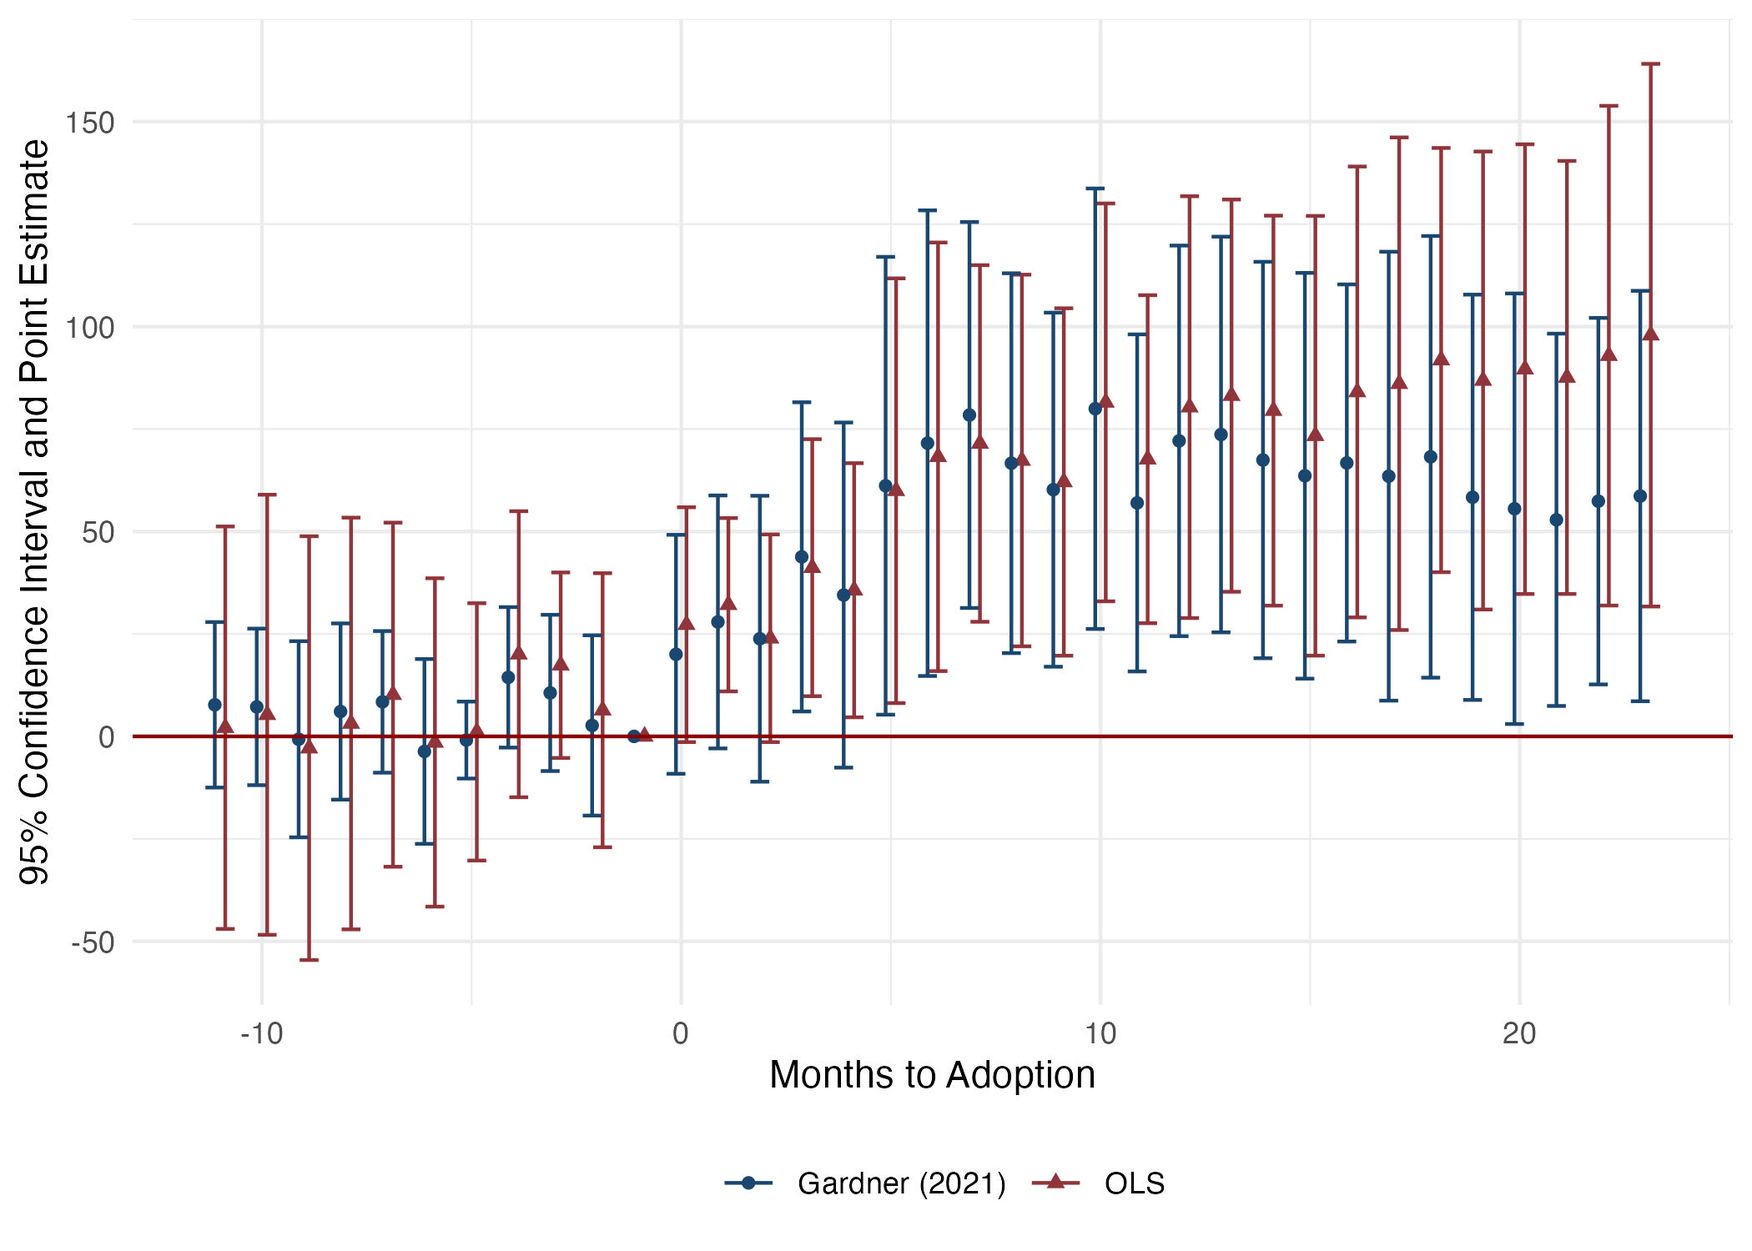
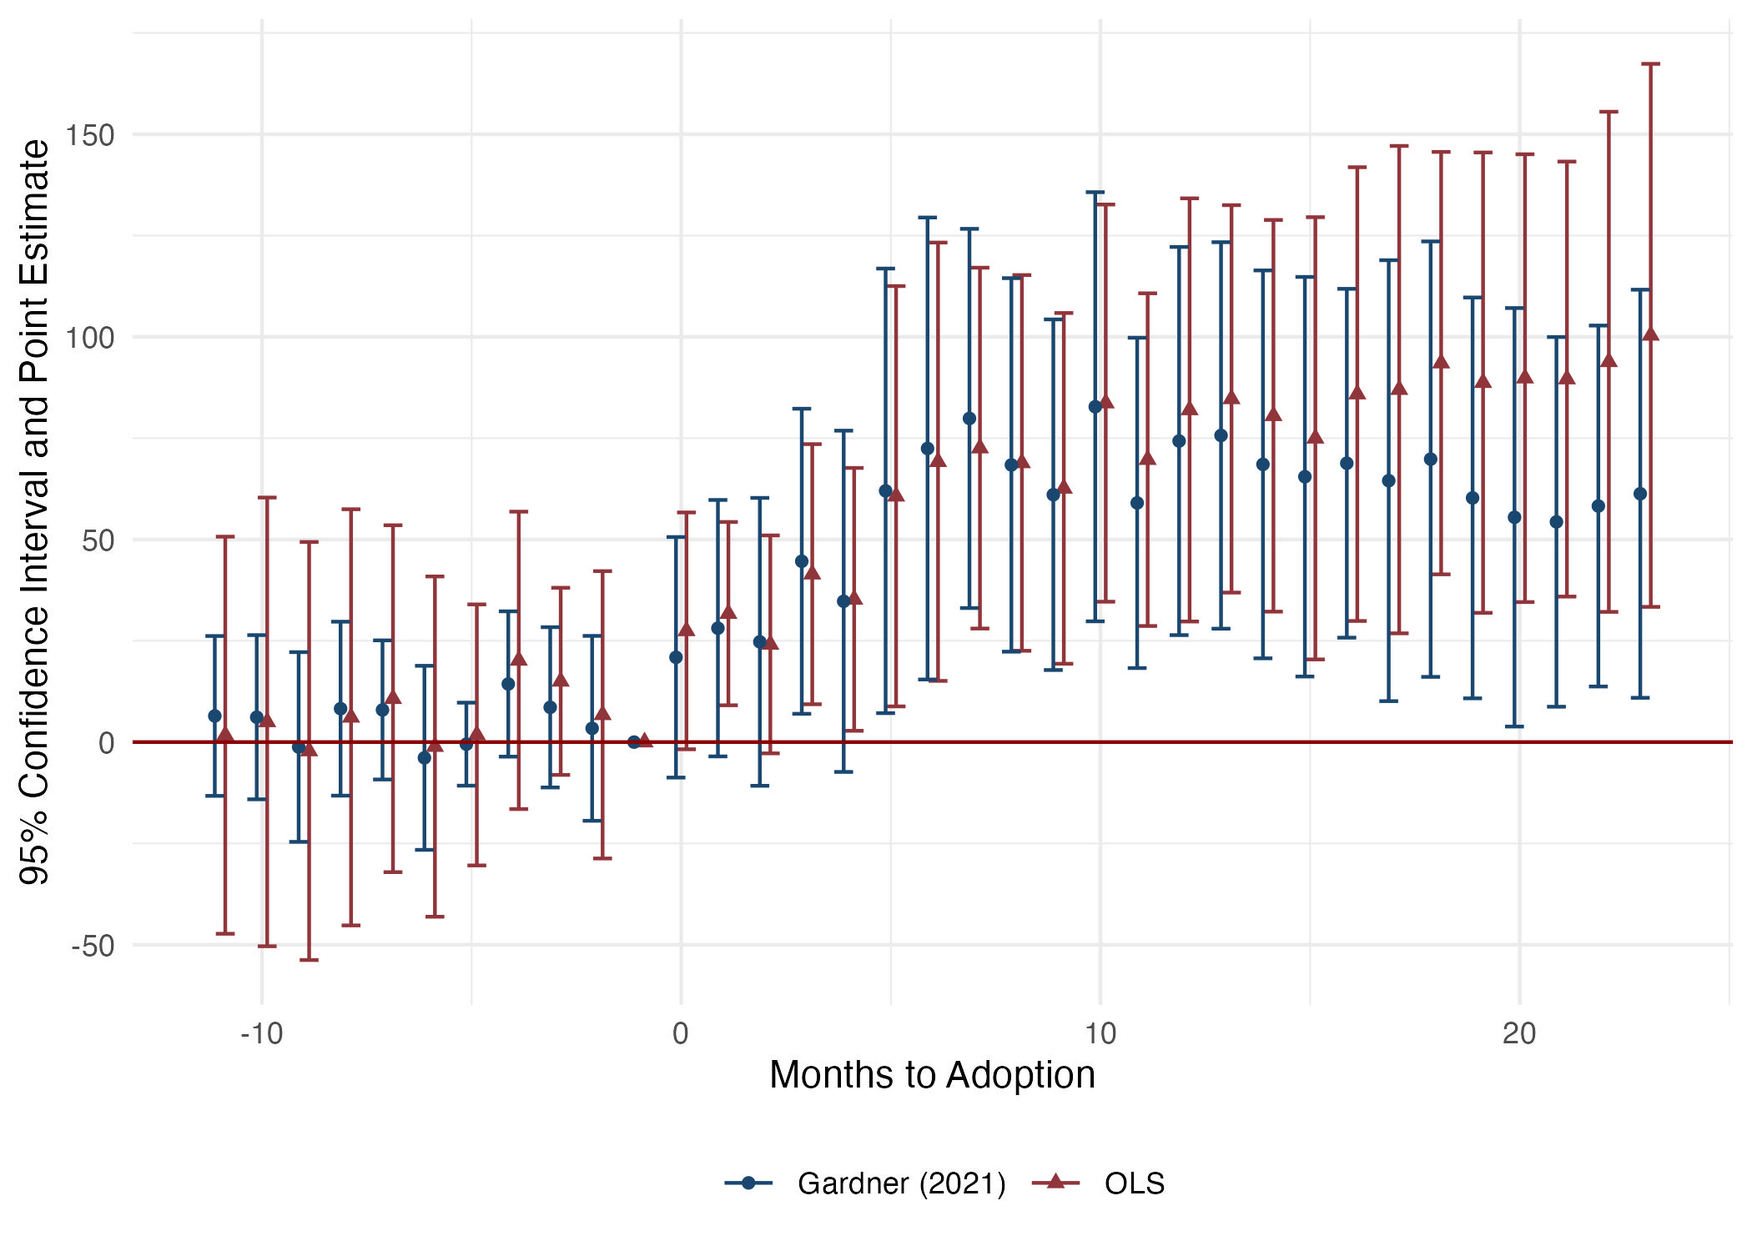
update: all figures and appendices

diff --git a/paper/appendix_tables/confounding_table.tex b/paper/appendix_tables/confounding_table.tex
@@ -14,37 +14,37 @@
 \midrule
 \addlinespace[0.3em]
 \multicolumn{7}{l}{\textit{Panel A: Call-to-Dispatch}}\\
-\hspace{1em}ShotSpotter Activated & 75.429*** & 71.817*** & 84.736*** & 90.334*** & 61.256*** & 71.856***\\
-\hspace{1em} & (25.028) & (22.497) & (26.894) & (22.057) & (20.988) & (22.523)\\
-\hspace{1em}SDSC Activated & -36.742** &  & -48.221** &  &  & \\
-\hspace{1em} & (16.585) &  & (16.930) &  &  & \\
-\hspace{1em}BWC Activated &  &  &  &  & -30.735 & \\
-\hspace{1em} &  &  &  &  & (20.755) & \\
-\hspace{1em}Mean of Dependent Variable & 281.890 & 281.890 & 289.018 & 289.018 & 281.890 & 281.890\\
-\hspace{1em}Observations & 3,582,560 & 3,582,528 & 3,198,525 & 3,198,500 & 3,582,560 & \vphantom{1} 3,582,528\\
-\hspace{1em}Wild Bootstrap P-Value & 0.006 &  & 0.004 &  & 0.010 & \\
+\hspace{1em}ShotSpotter Activated & 75.425*** & 71.454*** & 84.737*** & 90.120*** & 61.110*** & 71.461***\\
+\hspace{1em} & (25.374) & (22.770) & (27.235) & (22.300) & (21.220) & (22.783)\\
+\hspace{1em}SDSC Activated & -36.714** &  & -48.405** &  &  & \\
+\hspace{1em} & (16.847) &  & (17.110) &  &  & \\
+\hspace{1em}BWC Activated &  &  &  &  & -31.571 & \\
+\hspace{1em} &  &  &  &  & (20.928) & \\
+\hspace{1em}Mean of Dependent Variable & 287.246 & 287.246 & 294.523 & 294.523 & 287.246 & 287.246\\
+\hspace{1em}Observations & 3,453,655 & 3,453,623 & 3,084,625 & 3,084,600 & 3,453,655 & \vphantom{1} 3,453,623\\
+\hspace{1em}Wild Bootstrap P-Value & 0.002 &  & 0.007 &  & 0.003 & \\
 \addlinespace[0.5cm]
 \multicolumn{7}{l}{\textit{Panel B: Call-to-On-Scene}}\\
-\hspace{1em}ShotSpotter Activated & 120.530*** & 120.080*** & 127.822*** & 145.931*** & 98.403*** & 120.214***\\
-\hspace{1em} & (30.436) & (28.141) & (32.875) & (24.339) & (27.843) & (28.246)\\
-\hspace{1em}SDSC Activated & -60.324*** &  & -71.208*** &  &  & \\
-\hspace{1em} & (18.978) &  & (20.381) &  &  & \\
-\hspace{1em}BWC Activated &  &  &  &  & -40.821 & \\
-\hspace{1em} &  &  &  &  & (26.223) & \\
-\hspace{1em}Mean of Dependent Variable & 770.863 & 770.863 & 790.897 & 790.897 & 770.863 & 770.863\\
-\hspace{1em}Observations & 1,997,102 & 1,997,076 & 1,762,676 & 1,762,656 & 1,997,102 & 1,997,076\\
-\hspace{1em}Wild Bootstrap P-Value & 0.002 &  & 0.001 &  & 0.002 & \\
+\hspace{1em}ShotSpotter Activated & 120.292*** & 120.721*** & 127.204*** & 146.018*** & 98.225*** & 121.014***\\
+\hspace{1em} & (30.383) & (27.869) & (32.838) & (24.256) & (27.768) & (27.946)\\
+\hspace{1em}SDSC Activated & -60.056*** &  & -71.208*** &  &  & \\
+\hspace{1em} & (19.205) &  & (20.477) &  &  & \\
+\hspace{1em}BWC Activated &  &  &  &  & -39.998 & \\
+\hspace{1em} &  &  &  &  & (26.159) & \\
+\hspace{1em}Mean of Dependent Variable & 779.213 & 779.213 & 799.595 & 799.595 & 779.213 & 779.213\\
+\hspace{1em}Observations & 1,935,142 & 1,935,116 & 1,708,425 & 1,708,405 & 1,935,142 & 1,935,116\\
+\hspace{1em}Wild Bootstrap P-Value & 0.001 &  & 0.002 &  & 0.003 & \\
 \addlinespace[0.5cm]
 \multicolumn{7}{l}{\textit{Panel C: Arrest Made}}\\
-\hspace{1em}ShotSpotter Activated & -0.238*** & -0.252*** & -0.248*** & -0.259*** & -0.228*** & -0.249***\\
-\hspace{1em} & (0.073) & (0.063) & (0.079) & (0.071) & (0.065) & (0.065)\\
-\hspace{1em}SDSC Activated & 0.029 &  & 0.014 &  &  & \\
-\hspace{1em} & (0.069) &  & (0.074) &  &  & \\
-\hspace{1em}BWC Activated &  &  &  &  & 0.012 & \\
-\hspace{1em} &  &  &  &  & (0.068) & \\
-\hspace{1em}Mean of Dependent Variable & 2.502 & 2.502 & 2.495 & 2.495 & 2.502 & 2.502\\
-\hspace{1em}Observations & 3,582,560 & 3,582,528 & 3,198,525 & 3,198,500 & 3,582,560 & 3,582,528\\
-\hspace{1em}Wild Bootstrap P-Value & 0.002 &  & 0.009 &  & 0.003 & \\
+\hspace{1em}ShotSpotter Activated & -0.246*** & -0.256*** & -0.257*** & -0.266*** & -0.236*** & -0.252***\\
+\hspace{1em} & (0.074) & (0.064) & (0.081) & (0.072) & (0.067) & (0.065)\\
+\hspace{1em}SDSC Activated & 0.026 &  & 0.011 &  &  & \\
+\hspace{1em} & (0.071) &  & (0.077) &  &  & \\
+\hspace{1em}BWC Activated &  &  &  &  & 0.019 & \\
+\hspace{1em} &  &  &  &  & (0.071) & \\
+\hspace{1em}Mean of Dependent Variable & 2.553 & 2.553 & 2.546 & 2.546 & 2.553 & 2.553\\
+\hspace{1em}Observations & 3,453,655 & 3,453,623 & 3,084,625 & 3,084,600 & 3,453,655 & 3,453,623\\
+\hspace{1em}Wild Bootstrap P-Value & 0.006 &  & 0.006 &  & 0.002 & \\
 \midrule
 Gardner (2021) Robust &  & X &  & X &  & X\\
 \bottomrule
@@ -52,7 +52,7 @@ Gardner (2021) Robust &  & X &  & X &  & X\\
 \begin{tablenotes}
 \item \textit{Note: } 
 \item * p < 0.1, ** p < 0.05, *** p < 0.01
-\item Standard errors are clustered by district.                      Coefficient estimates are in seconds for Panel A and B,                      while estimates are in percent for Panel C.                      Columns 1 and 2 of Panel A show                       Call-to-Dispatch estimates when controlling for the implementation                      of Strategic                      Decision Support Centers (SDSC). In Columns 3 and 4,                       police districts 7 and 9 are omitted as Kapustin et al. (2022) shows that SDSCs                       affect                      police patrolling in these districts. Panel B is similar to Panel A,                      with the outcome of interest being Call-to-On-Scene times. In Panel C, the outcome of                      interest is a binary for whether a 911 call ended in an arrest. In Columns 5 and 6,                      we control for Body-Worn Camera (BWC) adoption. Note that in each specification,                      controls are consistent with the preferred specification. OLS estimates are reported                      in odd-numbered columns, while Gardner (2021) robust estimates are reported in even columns.                      The coefficient estimates of controls when using Gardner (2021) estimator are not reported as the                       two-stage method only returns the coefficient estimate of interest on                      the treated variable. In addition, the two-stage procedure may drop observations                      in the first stage if unable to predict values. This happens infrequently as shown                      in the observation counts, but is worth noting. Finally,                      wild cluster bootstrap p-values using 999 iterations are also reported                  as the number of clusters (22) is below the threshold of 30 put forth in                  Cameron et al. (2008). The bootstrap procedure cannot be performed using the Gardner (2021) estimator.                                                           
+\item Standard errors are clustered by district.                      Coefficient estimates are in seconds for Panel A and B,                      while estimates and means are in percent for Panel C.                      Columns 1 and 2 of Panel A show                       Call-to-Dispatch estimates when controlling for the implementation                      of Strategic                      Decision Support Centers (SDSC). In Columns 3 and 4,                       police districts 7 and 9 are omitted as Kapustin et al. (2022) shows that SDSCs                       affect                      police patrolling in these districts. Panel B is similar to Panel A,                      with the outcome of interest being Call-to-On-Scene times. In Panel C, the outcome of                      interest is a binary for whether a 911 call ended in an arrest. In Columns 5 and 6,                      we control for Body-Worn Camera (BWC) adoption. Note that in each specification,                      controls are consistent with the preferred specification. OLS estimates are reported                      in odd-numbered columns, while Gardner (2021) robust estimates are reported in even columns.                      The coefficient estimates of controls when using Gardner (2021) estimator are not reported as the                       two-stage method only returns the coefficient estimate of interest on                      the treated variable. In addition, the two-stage procedure may drop observations                      in the first stage if unable to predict values. This happens infrequently as shown                      in the observation counts, but is worth noting. Finally,                      wild cluster bootstrap p-values using 999 iterations are also reported                  as the number of clusters (22) is below the threshold of 30 put forth in                  Cameron et al. (2008). The bootstrap procedure cannot be performed using the Gardner (2021) estimator.                                                           
 \end{tablenotes}
 \end{threeparttable}
 \end{table}

diff --git a/paper/appendix_tables/arrest_prob_2sdid.tex b/paper/appendix_tables/arrest_prob_2sdid.tex
@@ -1,34 +1,34 @@
 \begin{table}[H]
 \centering
-\caption{\label{arrest_prob_2sdid}Effect of ShotSpotter Enactment on 911 Arrest Likelihood and Final Dispositions (Gardner 2021)}
+\caption{\label{arrest_prob_2sdid}Effect of ShotSpotter on 911 Call Resolutions (Gardner 2021)}
 \centering
 \begin{threeparttable}
 \fontsize{11}{13}\selectfont
-\begin{tabular}[t]{lcccccc}
+\begin{tabular}[t]{lcccc}
 \toprule
-\multicolumn{1}{c}{ } & \multicolumn{3}{c}{911 Arrests} & \multicolumn{3}{c}{Most Frequent Misc. 911 Dispositions} \\
-\cmidrule(l{3pt}r{3pt}){2-4} \cmidrule(l{3pt}r{3pt}){5-7}
-\multicolumn{1}{c}{ } & \multicolumn{1}{c}{\makecell[c]{Total\\Arrests}} & \multicolumn{1}{c}{\makecell[c]{Gun\\Arrests}} & \multicolumn{1}{c}{\makecell[c]{Non-Gun\\Arrests}} & \multicolumn{1}{c}{\makecell[c]{Other\\Police Service}} & \multicolumn{1}{c}{\makecell[c]{No\\Person Found}} & \multicolumn{1}{c}{\makecell[c]{Peace\\Restored}} \\
-\cmidrule(l{3pt}r{3pt}){2-2} \cmidrule(l{3pt}r{3pt}){3-3} \cmidrule(l{3pt}r{3pt}){4-4} \cmidrule(l{3pt}r{3pt}){5-5} \cmidrule(l{3pt}r{3pt}){6-6} \cmidrule(l{3pt}r{3pt}){7-7}
-  & (1) & (2) & (3) & (4) & (5) & (6)\\
+\multicolumn{2}{c}{ } & \multicolumn{3}{c}{Most Frequent Final 911 Dispositions} \\
+\cmidrule(l{3pt}r{3pt}){3-5}
+\multicolumn{1}{c}{ } & \multicolumn{1}{c}{\makecell[c]{Arrest\\Made}} & \multicolumn{1}{c}{\makecell[c]{Other\\Police Service}} & \multicolumn{1}{c}{\makecell[c]{No\\Person Found}} & \multicolumn{1}{c}{\makecell[c]{Peace\\Restored}} \\
+\cmidrule(l{3pt}r{3pt}){2-2} \cmidrule(l{3pt}r{3pt}){3-3} \cmidrule(l{3pt}r{3pt}){4-4} \cmidrule(l{3pt}r{3pt}){5-5}
+  & (1) & (2) & (3) & (4)\\
 \midrule
-ShotSpotter Activated & -0.267*** & -0.520*** & -0.241*** & 1.316* & 1.151*** & -0.482*\\
- & (0.060) & (0.176) & (0.065) & (0.686) & (0.411) & (0.261)\\
-Observations & 3,582,528 & 317,937 & 3,264,591 & 3,582,528 & 3,582,528 & 3,582,528\\
-Mean of Dependent Variable & 2.502 & 3.421 & 2.413 & 41.810 & 21.341 & 6.062\\
+ShotSpotter Activated & -0.271*** & 1.342** & 1.101*** & -0.479*\\
+ & (0.061) & (0.672) & (0.398) & (0.274)\\
+Observations & 3,453,623 & 3,453,623 & 3,453,623 & 3,453,623\\
+Mean of Dependent Variable & 2.553 & 41.047 & 21.367 & 6.283\\
 \midrule\\
-FE: Day-by-Month-by-Year & X & X & X & X & X & X\\
+FE: Day-by-Month-by-Year & X & X & X & X\\
 \addlinespace
-FE: Distrct & X & X & X & X & X & X\\
-FE: Call-Type & X & X & X & X & X & X\\
-FE: Hour-of-Day & X & X & X & X & X & X\\
-Gardner (2021) & X & X & X & X & X & X\\
+FE: Distrct & X & X & X & X\\
+FE: Call-Type & X & X & X & X\\
+FE: Hour-of-Day & X & X & X & X\\
+Gardner (2021) & X & X & X & X\\
 \bottomrule
 \end{tabular}
 \begin{tablenotes}
 \item \textit{Note: } 
 \item * p < 0.1, ** p < 0.05, *** p < 0.01
-\item Standard errors are clustered by district. All                      coefficient estimates and means are in percentages. All estimates                      are computed using the Gardner (2021) estimator.                       The dependent variable in Columns 1-3 is an indicator equal to one if a 911 call resulted in an arrest.                      The dependent variable in Columns 4-6 is an indicator equal to one if a 911 call resulted in                       Other Police Service (Column 4), No Person Found (Column 5), or Peace Restored (Column 6).                      Column 1 reports the estimates using the entire sample.                  Columns 2 and 3 subset Column 1 by gun-related and non-gun-related 911 calls.                  Gun-related crimes are those corresponding to the following                  911 code descriptions: `person with a gun',                  `shots fired', or `person shot'.                   Columns 4-6 report the three most frequent 911 final dispositions: Other Police Service, No Person Found,                   and Peace Restored. The final disposition is the final result of                  what happened on the 911 call.                   Wild cluster bootstrap p-values using 999 replications are also reported                  since the number of clusters (22) is below the threshold of 30 put forth in                  Cameron et al. (2008).                  
+\item Standard errors are clustered by district. All                      coefficient estimates and means are in percentages. All estimates                      are computed using the Gardner (2021) estimator.                       The dependent variable in Columns 1 is an indicator equal to one if a 911 call resulted in an arrest.                      The dependent variable in Columns 2-4 is an indicator equal to one if a 911 call resulted in                       Other Police Service (Column 4), No Person Found (Column 5), or Peace Restored (Column 6).                  Columns 2-4 report the three most frequent 911 final dispositions: Other Police Service, No Person Found,                   and Peace Restored. The final disposition is the final result of                  what happened on the 911 call.                  
 \end{tablenotes}
 \end{threeparttable}
 \end{table}

diff --git a/paper/appendix_tables/appendix_arrest_logit.tex b/paper/appendix_tables/appendix_arrest_logit.tex
@@ -1,33 +1,33 @@
 \begin{table}[H]
 \centering
-\caption{\label{arrest_prob_logit}Effect of ShotSpotter Enactment on 911 Arrest Likelihood and Final Dispositions (Logit)}
+\caption{\label{arrest_prob_logit}Effect of ShotSpotter on 911 Call Resolutions (Logit)}
 \centering
 \begin{threeparttable}
 \fontsize{11}{13}\selectfont
-\begin{tabular}[t]{lcccccc}
+\begin{tabular}[t]{lcccc}
 \toprule
-\multicolumn{1}{c}{ } & \multicolumn{3}{c}{911 Arrests} & \multicolumn{3}{c}{Most Frequent Final 911 Dispositions} \\
-\cmidrule(l{3pt}r{3pt}){2-4} \cmidrule(l{3pt}r{3pt}){5-7}
-\multicolumn{1}{c}{ } & \multicolumn{1}{c}{\makecell[c]{Total\\Arrests}} & \multicolumn{1}{c}{\makecell[c]{Gun\\Arrests}} & \multicolumn{1}{c}{\makecell[c]{Non-Gun\\Arrests}} & \multicolumn{1}{c}{\makecell[c]{Other\\Police Service}} & \multicolumn{1}{c}{\makecell[c]{No\\Person Found}} & \multicolumn{1}{c}{\makecell[c]{Peace\\Restored}} \\
-\cmidrule(l{3pt}r{3pt}){2-2} \cmidrule(l{3pt}r{3pt}){3-3} \cmidrule(l{3pt}r{3pt}){4-4} \cmidrule(l{3pt}r{3pt}){5-5} \cmidrule(l{3pt}r{3pt}){6-6} \cmidrule(l{3pt}r{3pt}){7-7}
-  & (1) & (2) & (3) & (4) & (5) & (6)\\
+\multicolumn{2}{c}{ } & \multicolumn{3}{c}{Most Frequent Final 911 Dispositions} \\
+\cmidrule(l{3pt}r{3pt}){3-5}
+\multicolumn{1}{c}{ } & \multicolumn{1}{c}{\makecell[c]{Arrest\\Made}} & \multicolumn{1}{c}{\makecell[c]{Other\\Police Service}} & \multicolumn{1}{c}{\makecell[c]{No\\Person Found}} & \multicolumn{1}{c}{\makecell[c]{Peace\\Restored}} \\
+\cmidrule(l{3pt}r{3pt}){2-2} \cmidrule(l{3pt}r{3pt}){3-3} \cmidrule(l{3pt}r{3pt}){4-4} \cmidrule(l{3pt}r{3pt}){5-5}
+  & (1) & (2) & (3) & (4)\\
 \midrule
-ShotSpotter Activated & -0.085*** & -0.053 & -0.091*** & 0.050* & 0.045** & -0.101***\\
- & (0.023) & (0.059) & (0.025) & (0.026) & (0.021) & (0.033)\\
-Mean of Dependent Variable & 0.025 & 0.035 & 0.024 & 0.418 & 0.213 & 0.061\\
-Observations & 3,575,901 & 312,613 & 3,257,964 & 3,582,487 & 3,582,140 & 3,580,087\\
+ShotSpotter Activated & -0.086*** & 0.046* & 0.048** & -0.101***\\
+ & (0.023) & (0.026) & (0.021) & (0.033)\\
+Mean of Dependent Variable & 0.026 & 0.410 & 0.214 & 0.063\\
+Observations & 3,446,996 & 3,453,582 & 3,453,235 & 3,451,182\\
 \midrule\\
-FE: Day-by-Month-by-Year & X & X & X & X & X & X\\
+FE: Day-by-Month-by-Year & X & X & X & X\\
 \addlinespace
-FE: District & X & X & X & X & X & X\\
-FE: Call-Type & X & X & X & X & X & X\\
-FE: Hour-of-Day & X & X & X & X & X & X\\
+FE: District & X & X & X & X\\
+FE: Call-Type & X & X & X & X\\
+FE: Hour-of-Day & X & X & X & X\\
 \bottomrule
 \end{tabular}
 \begin{tablenotes}
 \item \textit{Note: } 
 \item * p < 0.1, ** p < 0.05, *** p < 0.01
-\item Standard errors are clustered by district.                      The dependent variable in Columns 1-3 is an indicator equal to one if a 911 call resulted in an arrest.                      The dependent variable in Columns 4-6 is an indicator equal to one if a 911 call resulted in                       Other Police Service (Column 4), No Person Found (Column 5), or Peace Restored (Column 6).                      Column 1 reports the estimates using the entire sample.                  Columns 2 and 3 subset Column 1 by gun-related and non-gun-related 911 calls.                  Gun-related crimes are those corresponding to the following                  911 code descriptions: `person with a gun',                  `shots fired', or `person shot'.                   Columns 4-6 report the three most frequent 911 final dispositions: Other Police Service, No Person Found,                   and Peace Restored. The final disposition is the final result of                  what happened on the 911 call.                   Wild cluster bootstrap p-values using 999 replications are also reported                  since the number of clusters (22) is below the threshold of 30 put forth in                  Cameron et al. (2008).                  
+\item Standard errors are clustered by district.                      The dependent variable in Column 1 is an indicator equal to one if a 911 call resulted in an arrest.                      The dependent variable in Columns 2-4 is an indicator equal to one if a 911 call resulted in                       Other Police Service (Column 2), No Person Found (Column 3), or Peace Restored (Column 4).                  Columns 2-4 report the three most frequent 911 final dispositions: Other Police Service, No Person Found,                   and Peace Restored. The final disposition is the final result of                  what happened on the 911 call.                  
 \end{tablenotes}
 \end{threeparttable}
 \end{table}

diff --git a/paper/appendix_tables/missing_table.tex b/paper/appendix_tables/missing_table.tex
@@ -1,5 +1,5 @@
 \begin{table}[H]
-
+\centering
 \caption{\label{missing_data}Analysis of Missing Call-to-On-Scene Data (OLS)}
 \centering
 \begin{threeparttable}
@@ -14,18 +14,18 @@
 \midrule
 \addlinespace[0.3em]
 \multicolumn{4}{l}{\textit{Panel A: Missing Call-to-On-Scene}}\\
-\hspace{1em}ShotSpotter Activated & 0.038* & 0.032 & 0.042*\\
-\hspace{1em} & (0.019) & (0.019) & (0.022)\\
-\hspace{1em}Mean of Dependent Variable & 0.443 & 0.456 & 0.429\\
-\hspace{1em}Observations & 3,582,560 & 1,789,157 & \vphantom{1} 1,793,403\\
+\hspace{1em}ShotSpotter Activated & 0.035* & 0.029 & 0.039*\\
+\hspace{1em} & (0.019) & (0.019) & (0.021)\\
+\hspace{1em}Mean of Dependent Variable & 0.440 & 0.447 & 0.432\\
+\hspace{1em}Observations & 3,453,655 & 1,725,816 & \vphantom{1} 1,727,839\\
 \addlinespace[0.3em]
 \multicolumn{4}{l}{\textit{Panel B: Call-to-Dispatch}}\\
-\hspace{1em}ShotSpotter Activated & 66.408*** & 29.280** & 97.359***\\
-\hspace{1em} & (23.059) & (12.846) & (32.122)\\
-\hspace{1em}ShotSpotter Activated x Missing & -0.249 & -1.435 & -2.469\\
-\hspace{1em} & (32.877) & (18.407) & (44.942)\\
-\hspace{1em}Mean of Dependent Variable & 281.890 & 229.785 & 333.871\\
-\hspace{1em}Observations & 3,582,560 & 1,789,157 & 1,793,403\\
+\hspace{1em}ShotSpotter Activated & 66.409*** & 34.739** & 92.687***\\
+\hspace{1em} & (23.293) & (14.126) & (30.051)\\
+\hspace{1em}ShotSpotter Activated x Missing & 0.101 & 0.895 & -2.956\\
+\hspace{1em} & (33.317) & (20.676) & (42.251)\\
+\hspace{1em}Mean of Dependent Variable & 287.246 & 243.869 & 330.572\\
+\hspace{1em}Observations & 3,453,655 & 1,725,816 & 1,727,839\\
 \bottomrule
 \end{tabular}
 \begin{tablenotes}

diff --git a/paper/appendix_tables/bad_controls.tex b/paper/appendix_tables/bad_controls.tex
@@ -1,5 +1,5 @@
 \begin{table}[H]
-
+\centering
 \caption{\label{bad_controls}Effect of ShotSpotter Implementation on Confounding Controls (OLS)}
 \centering
 \begin{threeparttable}
@@ -10,9 +10,9 @@
 \midrule
 \addlinespace[0.3em]
 \multicolumn{3}{l}{\textit{Panel A: Number 911 Dispatches}}\\
-\hspace{1em}ShotSpotter Activated & -3.378 & -3.521\\
-\hspace{1em} & (2.208) & (2.518)\\
-\hspace{1em}Mean of Dependent Variable & 151.864 & 151.864\\
+\hspace{1em}ShotSpotter Activated & -1.885 & -1.889\\
+\hspace{1em} & (2.194) & (2.516)\\
+\hspace{1em}Mean of Dependent Variable & 149.550 & 149.550\\
 \hspace{1em}Observations & 55,792 & \vphantom{1} 55,792\\
 \addlinespace[0.5cm]
 \multicolumn{3}{l}{\textit{Panel B: Officer Availability}}\\
